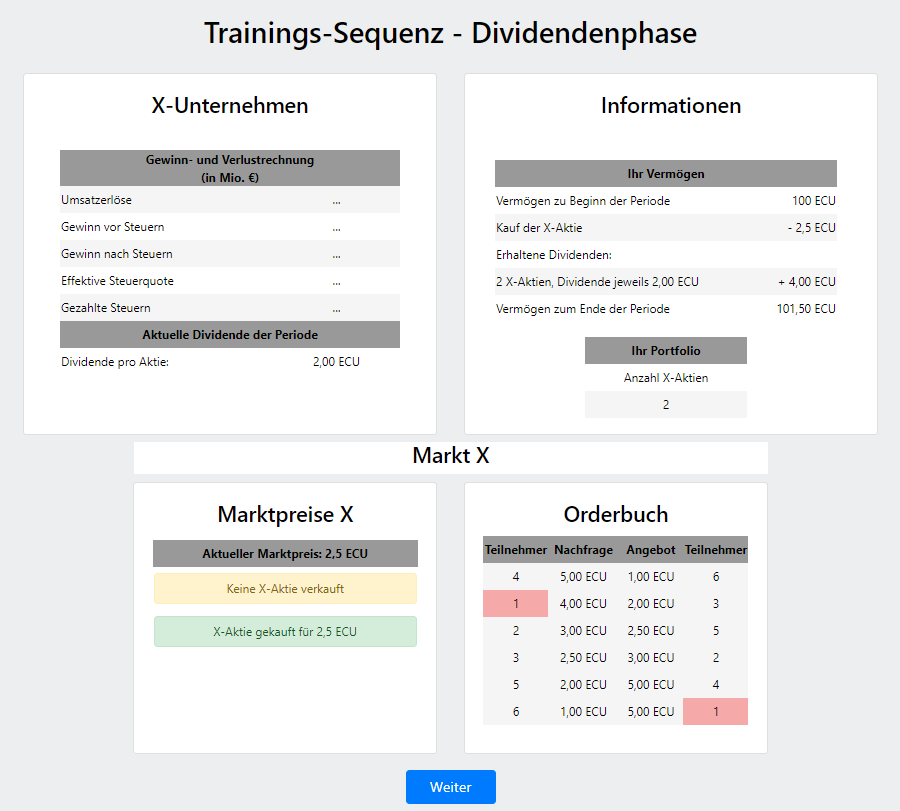
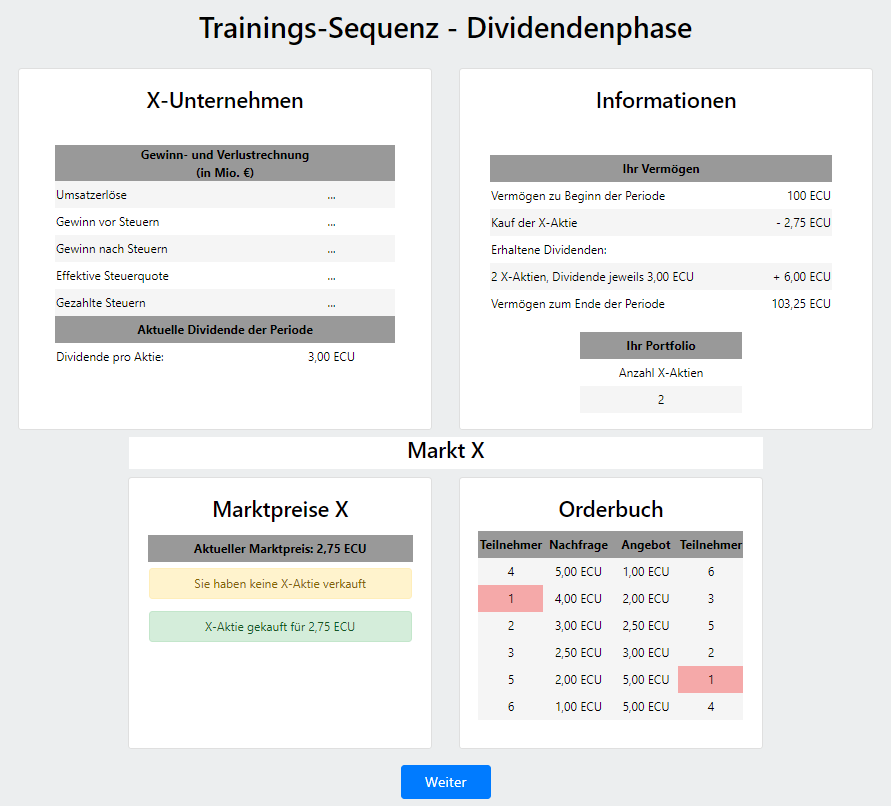
Screenshots erneuert und randomisiert

diff --git a/RepCostExperiment/templates/RepCostExperiment/content/Handelsphase.html b/RepCostExperiment/templates/RepCostExperiment/content/Handelsphase.html
@@ -13,9 +13,9 @@
     <p></p>
         <center>
             {% if player.rand == 1 %}
-                <img src="{% static "ReputationCosts/Screenshots/Handel.png" %}" width="100%"/>
+                <img src="{% static "ReputationCosts/Screenshots/Handelsphase_A_low.png" %}" width="100%"/>
             {% else %}
-                <img src="{% static "ReputationCosts/Screenshots/Handel.png" %}" width="100%"/>
+                <img src="{% static "ReputationCosts/Screenshots/Handelsphase_B_lox.png" %}" width="100%"/>
             {% endif %}
         </center>
     </p>

diff --git a/RepCostExperiment/templates/RepCostExperiment/content/Dividendenphase.html b/RepCostExperiment/templates/RepCostExperiment/content/Dividendenphase.html
@@ -20,9 +20,9 @@
         </p>
         <p>
             {% if player.rand == 1 %}
-                <img src="{% static "ReputationCosts/Screenshots/Dividenden.png" %}" width="100%"/>
+                <img src="{% static "ReputationCosts/Screenshots/Dividendenphase_A_low.png" %}" width="100%"/>
             {% else %}
-                <img src="{% static "ReputationCosts/Screenshots/Dividenden.png" %}" width="100%"/>
+                <img src="{% static "ReputationCosts/Screenshots/Dividendenphase_B_low.png" %}" width="100%"/>
             {% endif %}
         </p>
 
